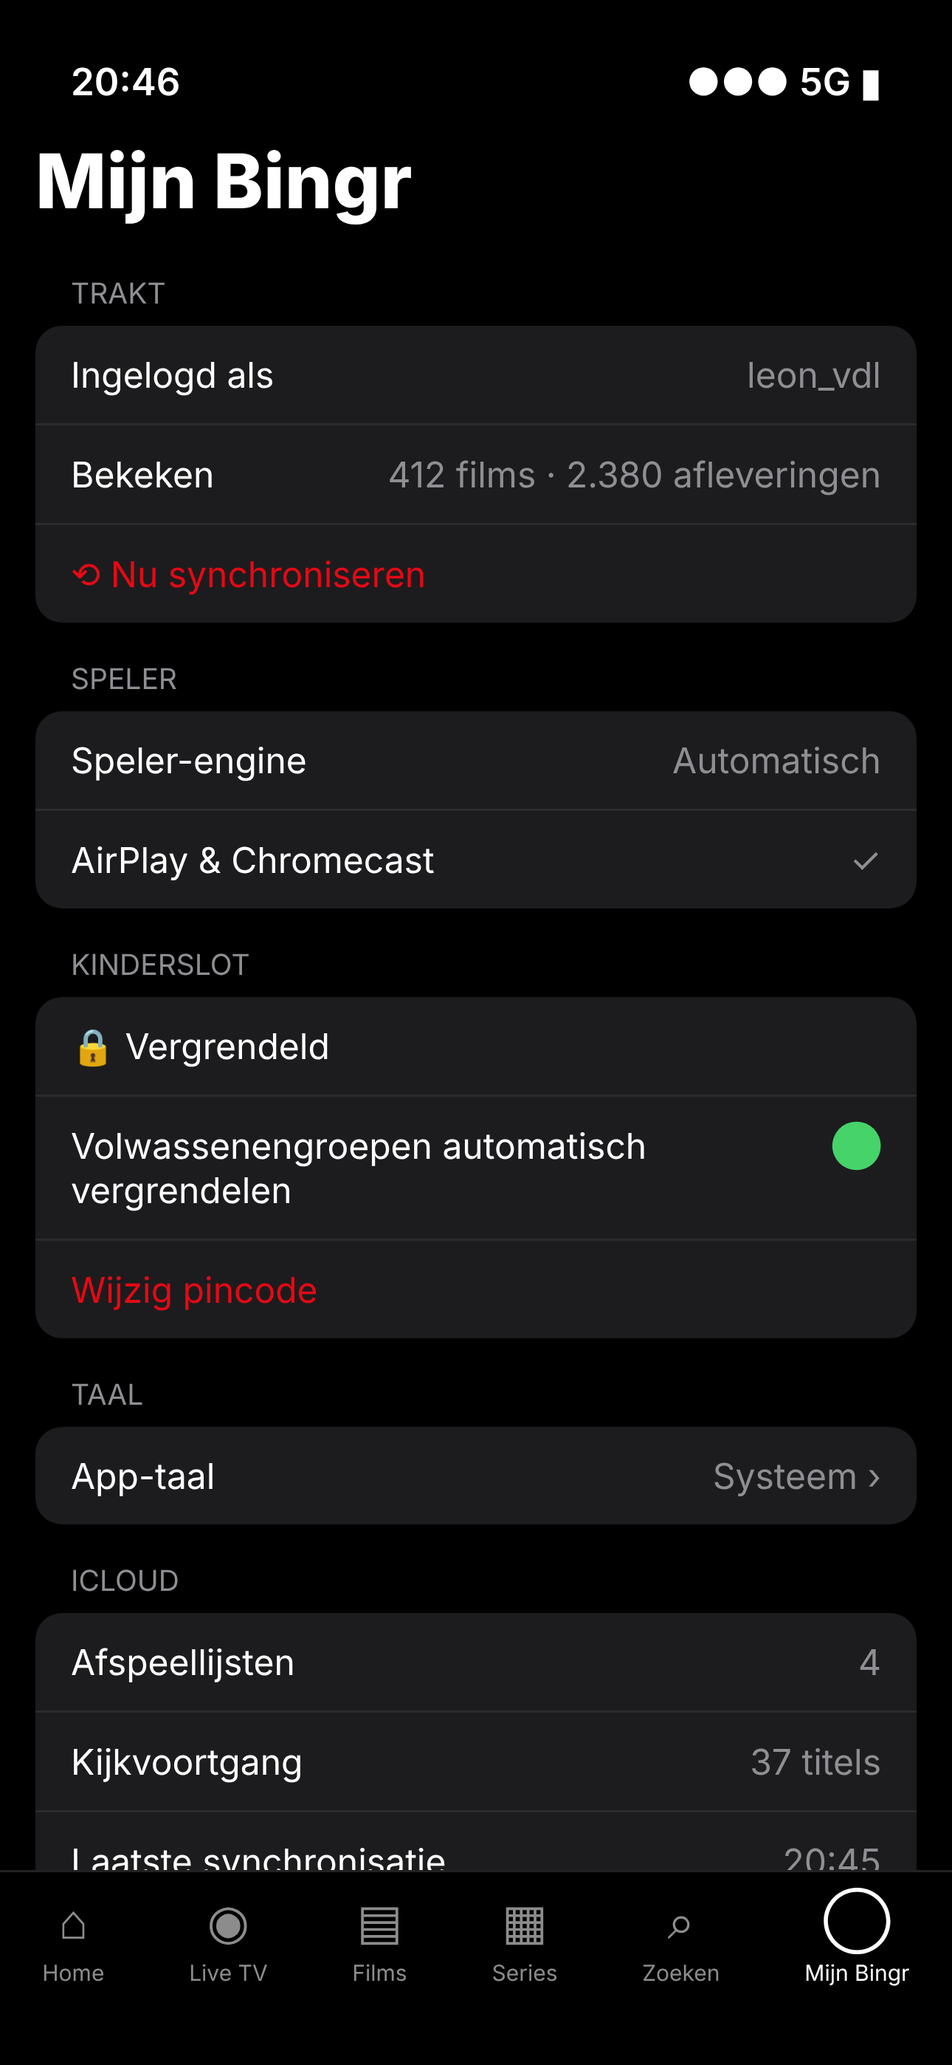
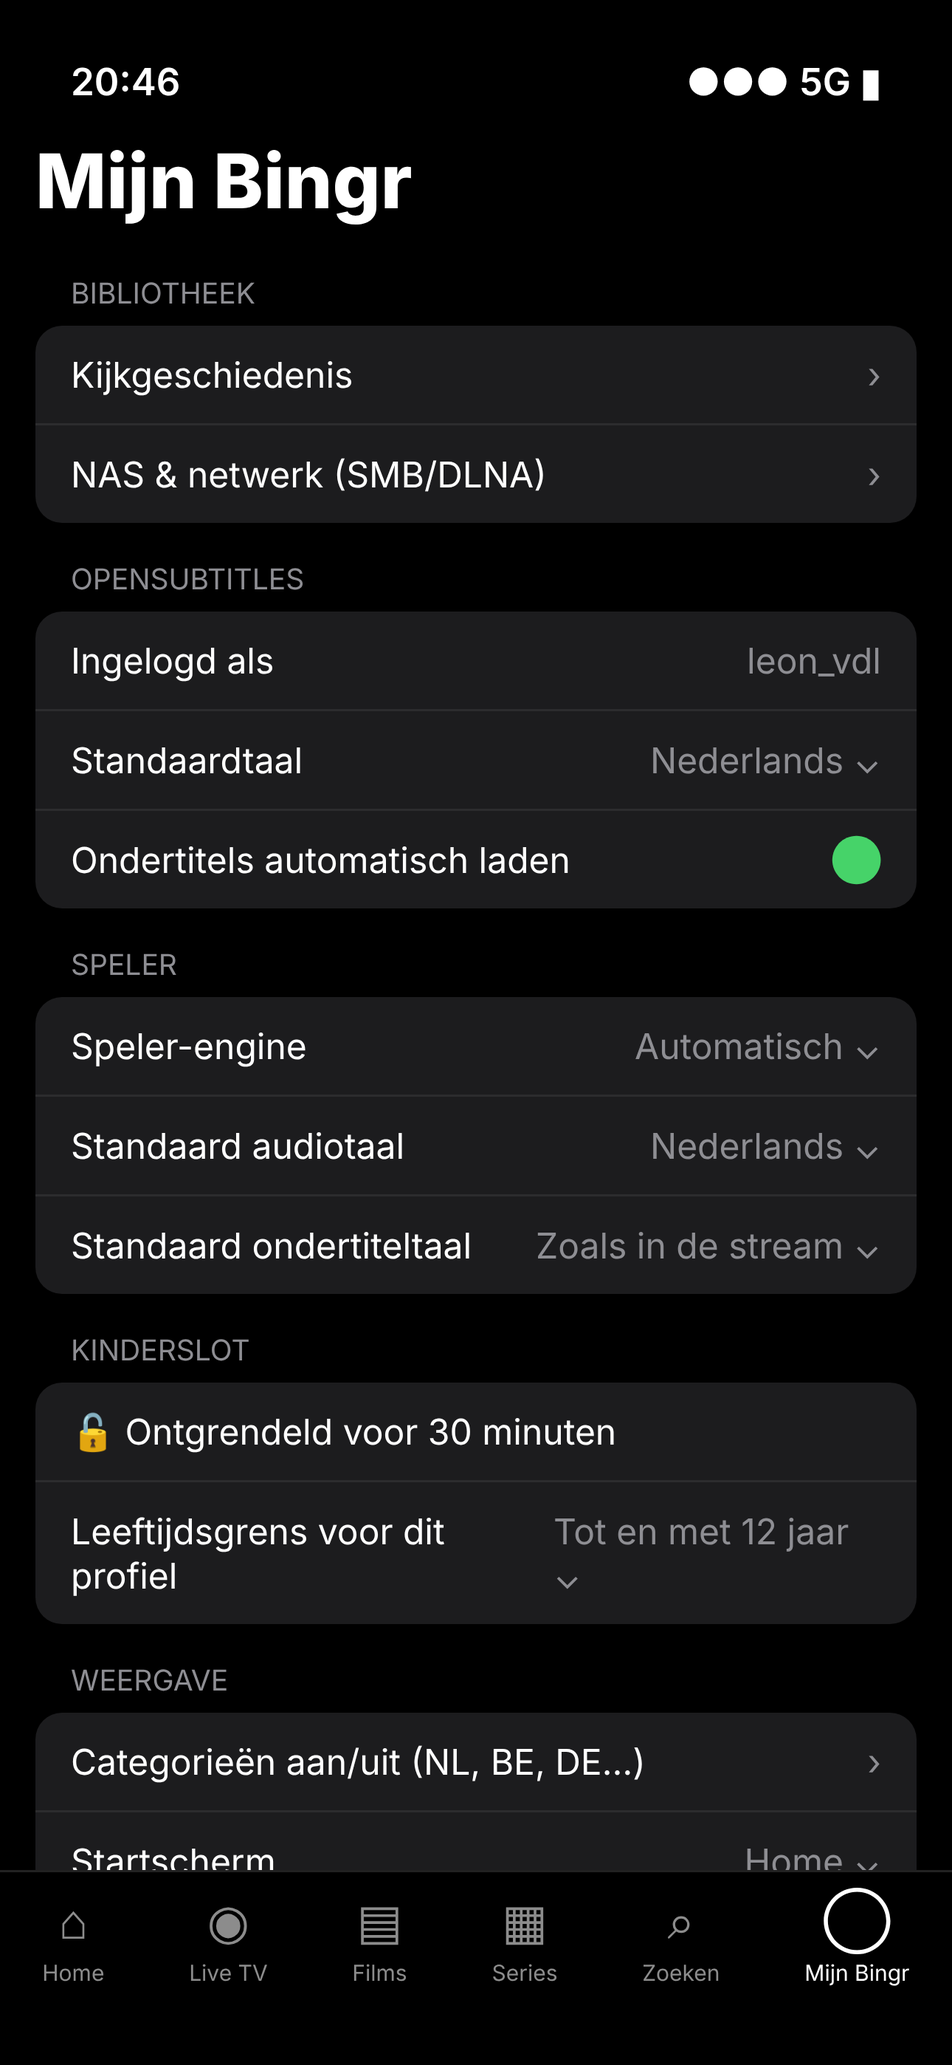
README en screenshots bijgewerkt: Top 10, Bekijk allemaal, categorieën aan/uit, nieuwe instellingen, ronde profielen
Claude-Session: https://claude.ai/code/session_01QoqqLVTvT2ekCDQmWshsy8

diff --git a/docs/mockups/mockups.html b/docs/mockups/mockups.html
@@ -43,7 +43,9 @@ function poster(i,w,opt={}){const p=P[i%P.length];const h=w*1.5;
  return `<div class="poster" style="width:${w}px;height:${h}px;background:radial-gradient(circle at 30% 20%,${p[2]}cc,transparent 60%),linear-gradient(160deg,${p[2]},${p[1]} 70%);font-size:${w*.13}px">
  <span>${p[0]}</span>${opt.check?'<div class="check">✓</div>':''}${opt.prog?`<div class="bar"><i style="width:${opt.prog}%"></i></div>`:''}${opt.badge?`<div style="position:absolute;bottom:10px;z-index:2;background:var(--red);font-size:9px;padding:2px 5px;border-radius:2px">${opt.badge}</div>`:''}</div>`}
 const AV=[["#E50914","#7A0008","📺"],["#2563EB","#1E1B4B","🌐"],["#10B981","#064E3B","⚽"],["#A855F7","#3B0764","👑"],["#F59E0B","#9A3412","🔥"]];
-function av(i,s,name,color="#B3B3B3"){const a=AV[i];return `<div style="display:flex;flex-direction:column;align-items:center;gap:${s*.07}px"><div class="avatar" style="width:${s}px;height:${s}px;background:linear-gradient(135deg,${a[0]},${a[1]});font-size:${s*.42}px">${a[2]}</div><div style="color:${color};font-size:${s*.13}px">${name}</div></div>`}
+function av(i,s,name,color="#B3B3B3"){const a=AV[i];return `<div style="display:flex;flex-direction:column;align-items:center;gap:${s*.07}px"><div class="avatar" style="border-radius:50%;width:${s}px;height:${s}px;background:linear-gradient(135deg,${a[0]},${a[1]});font-size:${s*.42}px">${a[2]}</div><div style="color:${color};font-size:${s*.13}px">${name}</div></div>`}
+function top10(i,k,w){return `<div style="display:flex;align-items:flex-end;flex:none;margin-right:6px"><div style="font-size:${w*1.45}px;font-weight:900;line-height:.78;color:#000;-webkit-text-stroke:${Math.max(2,w/45)}px #8c8c8c;letter-spacing:-.06em;margin-right:-${w*.28}px">${k+1}</div><div style="position:relative;box-shadow:-6px 0 14px #000a">${poster(i,w,{badge:k==1?'Onlangs toegevoegd':null})}<div style="position:absolute;top:5px;left:5px;z-index:3;background:var(--red);border-radius:2px;padding:1px 3px;text-align:center;line-height:.9"><div style="font-size:${w*.055}px;font-weight:900">TOP</div><div style="font-size:${w*.09}px;font-weight:900">10</div></div></div></div>`}
+function rowh(t,all=true,fs=19){return `<div style="display:flex;justify-content:space-between;align-items:baseline;margin:0 16px 8px"><h3 style="margin:0;font-size:${fs}px">${t}</h3>${all?`<span style="font-size:15px;font-weight:600">Bekijk allemaal</span>`:''}</div>`}
 function chlogo(t,c){return `<div style="display:grid;place-items:center;font-weight:900;color:${c};font-size:13px;letter-spacing:-.02em">${t}</div>`}
 const CH=[["Nieuws 24","#ff6d00","Avondjournaal","20:00","20:30",.6],["Actua","#00a0e9","Achter het nieuws","21:30","22:15",.2],["Prime One","#e3001b","Showbizz vandaag","20:30","21:30",.35],
  ["Family+","#d50000","Ons dorp","19:30","20:30",.8],["Motor TV","#6a1b9a","Formule 1 · Kwalificatie","20:00","22:00",.4],["Sport 1","#ff7f00","Voetbal Live","20:00","22:00",.45],
@@ -64,7 +66,7 @@ const screens = {
    <div style="text-align:center;margin-top:120px;font-size:26px;font-weight:500">Wat wil je kijken?</div>
    <div style="display:grid;grid-template-columns:repeat(2,130px);gap:28px 28px;justify-content:center;margin-top:36px">
    ${av(0,130,"Thuis TV")}${av(1,130,"Xtream Premium")}${av(2,130,"Sport")}${av(3,130,"Films 4K")}
-   <div style="display:flex;flex-direction:column;align-items:center;gap:9px"><div style="width:130px;height:130px;border:2px solid #b3b3b380;border-radius:8px;display:grid;place-items:center;font-size:48px;color:#b3b3b3;font-weight:200">+</div><div style="color:#b3b3b3;font-size:17px">Toevoegen</div></div></div>
+   <div style="display:flex;flex-direction:column;align-items:center;gap:9px"><div style="width:130px;height:130px;border:2px solid #b3b3b380;border-radius:50%;display:grid;place-items:center;font-size:48px;color:#b3b3b3;font-weight:200">+</div><div style="color:#b3b3b3;font-size:17px">Toevoegen</div></div></div>
    <div style="position:absolute;bottom:40px;width:100%;text-align:center;color:#b3b3b3aa;font-size:12px">☁ iCloud gesynchroniseerd · 20:41</div></div>`,
  ios_home:()=>`<div class="screen"><div style="position:absolute;inset:0 0 auto 0;height:640px;background:radial-gradient(circle at 50% 40%,#c0392b88,#000 75%)"></div>
    <div style="position:relative"><div class="status"><span>20:42</span><span>●●● 5G ▮</span></div>
@@ -76,10 +78,10 @@ const screens = {
        <div style="font-weight:900;font-size:34px;letter-spacing:1px">THE LAST SIGNAL</div>
        <div style="font-size:12px;opacity:.85;margin:8px 0 12px">2026 • Thriller • Sci-Fi • 2u 4m</div>
        <div style="display:flex;gap:10px"><div class="btn w" style="flex:1;padding:10px">▶ Afspelen</div><div class="btn g" style="flex:1;padding:10px">ⓘ Info</div></div></div></div>
-   <div class="row"><h3>Top 10 films vandaag</h3><div class="scroller">${[0,1,2].map((i,k)=>`<div style="display:flex;align-items:center;flex:none"><div style="font-size:150px;font-weight:900;line-height:1;background:linear-gradient(#4a4a4a,#111);-webkit-background-clip:text;color:transparent;-webkit-text-stroke:2px #888;margin-right:-22px">${k+1}</div>${poster(i+5,112,{check:k==1})}</div>`).join('')}</div></div><div class="row"><h3>Onlangs toegevoegd</h3><div class="scroller">${[13,14,15,16].map(i=>poster(i,112)).join('')}</div></div>
-   <div class="row"><h3>Verder kijken</h3><div class="scroller">${[4,8,2,11].map((i,k)=>poster(i,112,{prog:[62,25,80,40][k]})).join('')}</div></div>
-   <div class="row"><h3>Voor jou</h3><div class="scroller">${[3,9,12,6].map((i,k)=>poster(i,112,{badge:k%2?'SERIE':'FILM'})).join('')}</div></div>
-   
+   <div class="row">${rowh('Onlangs toegevoegd')}<div class="scroller">${[13,14,15,16].map(i=>poster(i,112)).join('')}</div></div>
+   <div class="row">${rowh('Verder kijken',false)}<div class="scroller">${[4,8,2,11].map((i,k)=>poster(i,112,{prog:[62,25,80,40][k]})).join('')}</div></div>
+   <div class="row">${rowh('Voor jou')}<div class="scroller">${[3,9,12,6].map((i,k)=>poster(i,112,{badge:k%2?'SERIE':'FILM'})).join('')}</div></div>
+   <div class="row">${rowh('Top 10 series vandaag')}<div class="scroller">${[7,10,1].map((i,k)=>top10(i,k,118)).join('')}</div></div>
    </div>
    <div class="tabbar">${["Home","Live TV","Films","Series","Zoeken","Mijn Bingr"].map((t,i)=>`<div class="${i==0?'on':''}"><span style="font-size:22px">${["⌂","◉","▤","▦","⌕","◯"][i]}</span>${t}</div>`).join('')}</div></div>`,
  ios_detail:()=>`<div class="screen" style="background:#000;overflow:hidden">
@@ -148,14 +150,34 @@ const screens = {
    <div class="tabbar">${["Home","Live TV","Films","Series","Zoeken","Mijn Bingr"].map((t,i)=>`<div class="${i==1?'on':''}"><span style="font-size:22px">${["⌂","◉","▤","▦","⌕","◯"][i]}</span>${t}</div>`).join('')}</div></div>`,
  ios_settings:()=>`<div class="screen" style="background:#000"><div class="status"><span>20:46</span><span>●●● 5G ▮</span></div>
    <div style="font-size:34px;font-weight:800;padding:8px 16px 4px">Mijn Bingr</div>
-   ${[["TRAKT",[["Ingelogd als","leon_vdl"],["Bekeken","412 films · 2.380 afleveringen"],["⟲ Nu synchroniseren",""]]],
-      ["SPELER",[["Speler-engine","Automatisch"],["AirPlay & Chromecast","✓"]]],
-      ["KINDERSLOT",[["🔒 Vergrendeld",""],["Volwassenengroepen automatisch vergrendelen","●"],["Wijzig pincode",""]]],
-      ["TAAL",[["App-taal","Systeem ›"]]],
-      ["ICLOUD",[["Afspeellijsten","4"],["Kijkvoortgang","37 titels"],["Laatste synchronisatie","20:45"]]]].map(sec=>`
+   ${[["BIBLIOTHEEK",[["Kijkgeschiedenis","›"],["NAS & netwerk (SMB/DLNA)","›"]]],
+      ["OPENSUBTITLES",[["Ingelogd als","leon_vdl"],["Standaardtaal","Nederlands ⌄"],["Ondertitels automatisch laden","●"]]],
+      ["SPELER",[["Speler-engine","Automatisch ⌄"],["Standaard audiotaal","Nederlands ⌄"],["Standaard ondertiteltaal","Zoals in de stream ⌄"]]],
+      ["KINDERSLOT",[["🔓 Ontgrendeld voor 30 minuten",""],["Leeftijdsgrens voor dit profiel","Tot en met 12 jaar ⌄"]]],
+      ["WEERGAVE",[["Categorieën aan/uit (NL, BE, DE…)","›"],["Startscherm","Home ⌄"],["Live-tv tonen","●"]]],
+      ["TAAL",[["App-taal","Systeem ⌄"]]]].map(sec=>`
      <div style="color:#8e8e93;font-size:13px;margin:18px 32px 6px">${sec[0]}</div>
      <div style="background:#1c1c1e;border-radius:12px;margin:0 16px">${sec[1].map((r,i)=>`<div style="display:flex;justify-content:space-between;padding:12px 16px;font-size:16px;${i?'border-top:1px solid #2c2c2e':''}"><span style="${r[0].startsWith('⟲')||r[0].startsWith('Wijzig')?'color:var(--red)':''}">${r[0]}</span><span style="color:${r[1]=='●'?'var(--green)':'#8e8e93'}">${r[1]=='●'?'⬤':r[1]}</span></div>`).join('')}</div>`).join('')}
    <div class="tabbar">${["Home","Live TV","Films","Series","Zoeken","Mijn Bingr"].map((t,i)=>`<div class="${i==5?'on':''}"><span style="font-size:22px">${["⌂","◉","▤","▦","⌕","◯"][i]}</span>${t}</div>`).join('')}</div></div>`,
+ ios_top10:()=>`<div class="screen"><div class="status"><span>20:43</span><span>●●● 5G ▮</span></div>
+   <div style="display:flex;justify-content:space-between;align-items:center;padding:6px 16px"><div class="logo" style="font-size:26px">BINGR</div><div class="avatar" style="width:30px;height:30px;font-size:15px;border-radius:50%;background:linear-gradient(135deg,#E50914,#7A0008)">📺</div></div>
+   <div class="row">${rowh('Verder kijken',false)}<div class="scroller">${[4,8,2,11].map((i,k)=>poster(i,112,{prog:[62,25,80,40][k]})).join('')}</div></div>
+   <div class="row">${rowh('Voor jou')}<div class="scroller">${[3,9,12,6].map((i,k)=>poster(i,112,{badge:k%2?'SERIE':'FILM'})).join('')}</div></div>
+   <div class="row" style="margin-top:26px">${rowh('Top 10 series vandaag')}<div class="scroller">${[7,10,1].map((i,k)=>top10(i,k,118)).join('')}</div></div>
+   <div class="row" style="margin-top:26px">${rowh('Top 10 films vandaag')}<div class="scroller">${[5,13,0].map((i,k)=>top10(i,k,118)).join('')}</div></div>
+   <div class="tabbar">${["Home","Live TV","Films","Series","Zoeken","Mijn Bingr"].map((t,i)=>`<div class="${i==0?'on':''}"><span style="font-size:22px">${["⌂","◉","▤","▦","⌕","◯"][i]}</span>${t}</div>`).join('')}</div></div>`,
+ ios_categories:()=>`<div class="screen" style="background:#000"><div class="status"><span>20:47</span><span>●●● 5G ▮</span></div>
+   <div style="padding:6px 16px;color:var(--red);font-size:17px">‹ Mijn Bingr</div>
+   <div style="font-size:30px;font-weight:800;padding:2px 16px 10px">Categorieën</div>
+   <div style="margin:0 16px;background:#1c1c1e;border-radius:9px;display:flex;padding:2px">${["Live TV","Films","Series"].map((t,i)=>`<div style="flex:1;text-align:center;padding:6px;border-radius:7px;font-size:13px;font-weight:600;${i==0?'background:#636366':''}">${t}</div>`).join('')}</div>
+   <div style="color:#8e8e93;font-size:13px;margin:18px 32px 6px">LANDEN & TALEN</div>
+   <div style="display:flex;gap:8px;padding:0 16px;flex-wrap:wrap">${[["NL","12/12",1],["BE","6/6",1],["DE","0/9",0],["TK","0/14",0],["UK","3/8",2],["FR","0/7",0]].map(p=>`<div style="padding:7px 12px;border-radius:999px;font-size:14px;background:${p[2]==1?'#E50914d9':'#232323'}"><b>${p[2]==1?'✓':p[2]==2?'−':'○'} ${p[0]}</b> <span style="color:#b3b3b3">${p[1]}</span></div>`).join('')}</div>
+   <div style="color:#8e8e93;font-size:12px;margin:6px 32px">Tik op een code om al die categorieën in één keer aan of uit te zetten.</div>
+   <div style="color:#8e8e93;font-size:13px;margin:16px 32px 6px">CATEGORIEËN (56)</div>
+   <div style="background:#1c1c1e;border-radius:12px;margin:0 16px">${[["Alles aan","Alles uit"]].map(r=>`<div style="display:flex;justify-content:space-between;padding:12px 16px;color:var(--red);font-size:16px"><span>${r[0]}</span><span>${r[1]}</span></div>`).join('')}${[["NL | Algemeen",1],["NL | Sport",1],["NL | Kids",1],["BE | Vlaams",1],["DE | Allgemein",0],["DE | Sport",0],["TK | Ulusal",0],["UK | Entertainment",1],["UK | News",0]].map(r=>`<div style="display:flex;justify-content:space-between;align-items:center;padding:10px 16px;font-size:16px;border-top:1px solid #2c2c2e"><span>${r[0]}</span><span style="width:51px;height:31px;border-radius:16px;background:${r[1]?'var(--red)':'#39393d'};position:relative"><i style="position:absolute;top:2px;${r[1]?'right':'left'}:2px;width:27px;height:27px;border-radius:50%;background:#fff"></i></span></div>`).join('')}</div></div>`,
+ ios_category:()=>`<div class="screen" style="background:#000"><div class="status"><span>20:48</span><span>●●● 5G ▮</span></div>
+   <div style="display:flex;align-items:center;gap:10px;padding:8px 12px 14px"><span style="font-size:26px">‹</span><div style="flex:1;font-size:21px;font-weight:800">NL | NETFLIX SERIES</div><span style="font-size:20px">⇅</span></div>
+   <div style="display:grid;grid-template-columns:1fr 1fr;gap:14px;padding:0 16px">${[0,3,7,9,12,15].map((i,k)=>`<div><div style="position:relative">${poster(i,191)}<div style="position:absolute;top:6px;right:6px;z-index:3;background:var(--imdb);color:#000;font-size:11px;font-weight:800;padding:2px 6px;border-radius:4px">★ ${[7.9,8.4,6.8,7.2,8.1,6.5][k]}</div></div><div style="font-size:13px;font-weight:600;margin-top:6px">${P[i][0]}</div></div>`).join('')}</div></div>`,
  // ---------- tvOS ----------
 
  tv_multiview:()=>`<div class="screen" style="display:grid;grid-template-columns:1fr 1fr;grid-template-rows:1fr 1fr">
@@ -187,9 +209,9 @@ const screens = {
      <div style="display:flex;gap:40px;padding:24px 80px">${[4,8,2,11,6,13].map((i,k)=>poster(i,230,{prog:[62,25,80,40,10,55][k]})).join('')}</div></div></div>`,
  tv_picker:()=>`<div class="screen" style="display:flex;flex-direction:column;align-items:center;justify-content:center">
    <div class="logo" style="position:absolute;top:50px;left:80px;font-size:50px">BINGR</div>
-   <div style="font-size:52px;font-weight:500;margin-bottom:60px">Wat wil je kijken?</div>
-   <div style="display:flex;gap:60px">${av(0,230,"Thuis TV")}${av(1,230,"Xtream Premium")}<div style="transform:scale(1.12);filter:drop-shadow(0 20px 30px #000)">${av(2,230,"Sport","#fff")}</div>${av(3,230,"Films 4K")}
-   <div style="display:flex;flex-direction:column;align-items:center;gap:16px"><div style="width:230px;height:230px;border:3px solid #b3b3b380;border-radius:8px;display:grid;place-items:center;font-size:90px;color:#b3b3b3;font-weight:200">+</div><div style="color:#b3b3b3;font-size:30px">Toevoegen</div></div></div>
+   <div style="font-size:52px;font-weight:500;margin-bottom:70px">Wat wil je kijken?</div>
+   <div style="display:flex;gap:70px;align-items:flex-start">${av(0,230,"Thuis TV")}${av(1,230,"Xtream Premium")}<div style="transform:scale(1.12);filter:drop-shadow(0 20px 30px #000)"><div style="display:flex;flex-direction:column;align-items:center;gap:16px"><div class="avatar" style="border-radius:50%;width:230px;height:230px;background:linear-gradient(135deg,${AV[2][0]},${AV[2][1]});font-size:97px;box-shadow:0 0 0 6px #fff">${AV[2][2]}</div><div style="color:#fff;font-weight:700;font-size:30px">Sport</div></div></div>${av(3,230,"Films 4K")}
+   <div style="display:flex;flex-direction:column;align-items:center;gap:16px"><div style="width:230px;height:230px;border:3px solid #b3b3b380;border-radius:50%;display:grid;place-items:center;font-size:90px;color:#b3b3b3;font-weight:200">+</div><div style="color:#b3b3b3;font-size:30px">Toevoegen</div></div></div>
    <div style="position:absolute;bottom:50px;color:#b3b3b3aa;font-size:22px">☁ iCloud gesynchroniseerd met je iPhone</div></div>`,
  tv_detail:()=>`<div class="screen" style="background:#141414">
    <div style="position:absolute;inset:0;height:460px;background:radial-gradient(circle at 30% 30%,#16a085,transparent 60%),linear-gradient(160deg,#0b3d3a,#141414)"></div>

diff --git a/README.md b/README.md
@@ -16,10 +16,10 @@ SwiftUI · iOS 17+ · tvOS 17+ · Apple- én VLC-engine · 11 talen.
 | <img src="docs/screenshots/ios_splash.png" width="240"> | <img src="docs/screenshots/ios_picker.png" width="240"> | <img src="docs/screenshots/ios_home.png" width="240"> |
 | **Details** | **Details: scores, cast, aanbevelingen** | **Live TV** |
 | <img src="docs/screenshots/ios_detail.png" width="240"> | <img src="docs/screenshots/ios_detail2.png" width="240"> | <img src="docs/screenshots/ios_live.png" width="240"> |
-| **Tv-gids** | | |
-| <img src="docs/screenshots/ios_guide.png" width="240"> | | |
-| **Afspeellijst toevoegen** | **Instellingen** | |
-| <img src="docs/screenshots/ios_add.png" width="240"> | <img src="docs/screenshots/ios_settings.png" width="240"> | |
+| **Tv-gids** | **Top 10 (Netflix-stijl)** | **Bekijk allemaal** |
+| <img src="docs/screenshots/ios_guide.png" width="240"> | <img src="docs/screenshots/ios_top10.png" width="240"> | <img src="docs/screenshots/ios_category.png" width="240"> |
+| **Afspeellijst toevoegen** | **Mijn Bingr** | **Categorieën aan/uit** |
+| <img src="docs/screenshots/ios_add.png" width="240"> | <img src="docs/screenshots/ios_settings.png" width="240"> | <img src="docs/screenshots/ios_categories.png" width="240"> |
 
 ### Apple TV
 
@@ -40,20 +40,26 @@ SwiftUI · iOS 17+ · tvOS 17+ · Apple- én VLC-engine · 11 talen.
 - **Plex** (inloggen met code op plex.tv/link), **Jellyfin**, **Emby** (films, series, live TV + gids)
 - **Stremio**: inloggen met je Stremio-account of eigen add-on-URL's (Cinemeta-catalogi, directe streams)
 - Afspeellijst-kiezer in Netflix-profielstijl met eigen **naam en avatar of profielfoto** (uit je fotobibliotheek) per lijst
-- **Zoeken in al je afspeellijsten** tegelijk
+- **Zoeken in al je afspeellijsten** tegelijk, ook in de **tv-gids** (nu, straks en terugkijken)
+- **NAS via SMB/DLNA**: servers op je netwerk worden gevonden, of voeg zelf een SMB-share toe; bladeren en afspelen
 
 **Kijken**
 - Twee engines: **Apple (AVPlayer)** voor HLS/MP4 met **HDR, Dolby Vision, Dolby Atmos** en automatisch juiste schermmodus op Apple TV; **VLC** voor .ts, .mkv, AC3/DTS en de rest. Automatisch kiezen of zelf instellen
-- **AirPlay** en **Chromecast** (zonder extra SDK)
+- **AirPlay** en **Chromecast** (zonder extra SDK), **beeld-in-beeld** op iPhone, iPad en Apple TV
+- **Standaard audio- en ondertiteltaal** (automatisch gekozen als de stream ze heeft)
 - **Automatisch herverbinden** bij haperende of weggevallen streams (met terugval naar de andere engine)
 - **Timeshift**: live tv pauzeren en terugspoelen (HLS-venster of catch-up), knop "terug naar live"
 - **Multiview**: tot 4 streams tegelijk, geluid van het geselecteerde beeld
-- Audio- en ondertitelsporen, **OpenSubtitles** (inloggen, zoeken op IMDb-ID, automatisch laden), snelheid, beeldverhouding, slaaptimer, zappen ↑↓
+- Audio- en ondertitelsporen, **OpenSubtitles** (zoeken op IMDb-ID of titel, taal kiezen tijdens het kijken, standaardtaal + automatisch laden), snelheid, beeldverhouding, slaaptimer, zappen ↑↓
 
 **Gids & beheer**
 - **Tv-gids als raster** met nu-lijn, programma-details, **terugkijken** en **herinneringen** (melding op iPhone/iPad, banner op Apple TV)
+- **Live TV** opent op "Alle zenders"; favorieten, recent en alle groepen
+- **Categorieën aan/uit** per Live TV, Films en Series, met snelknoppen per land/taal (NL, BE, DE, TK …)
 - **Beheren**: groepen en zenders hernoemen, herschikken, samenvoegen en verbergen
-- **Kinderslot** met pincode: groepen op slot, volwassenengroepen automatisch, 30 min ontgrendelen
+- **Kinderslot** met pincode: groepen op slot, volwassenengroepen automatisch, **leeftijdsgrens per profiel** (IMDb-classificatie), 30 min ontgrendelen
+- **Kijkgeschiedenis per profiel**, per dag, met verwijderen en wissen
+- **Weergave**: startscherm kiezen en tabbladen verbergen; alle keuzes als dropdown
 
 **Detailpagina (UHF-stijl)**
 - Grote afbeelding met titel-logo, score, jaar en speelduur/seizoenen
@@ -64,7 +70,10 @@ SwiftUI · iOS 17+ · tvOS 17+ · Apple- én VLC-engine · 11 talen.
 - Werkt zonder sleutels met de info van je Xtream-server; IMDb, Trakt en TMDB vullen aan
 
 **Netflix-ervaring**
-- Geanimeerde splash, billboard, rijen, Top 10 (Trakt trending in jouw lijst), Verder kijken, Mijn lijst
+- Geanimeerde splash, profielkeuze met ronde avatars (op Apple TV vergroot de geselecteerde), billboard, rijen
+- **Top 10 zoals Netflix** (grote omlijnde cijfers, Trakt trending in jouw lijst) onder Voor jou: series en films op Home, films bij Films, series bij Series
+- **Verder kijken** (verwijderbaar, zonder live tv), **Voor jou** (vergelijkbaar met wat je keek), Mijn lijst
+- **Bekijk allemaal** bij elke rij: categoriepagina met sorteren (A–Z, nieuwste, score) en IMDb-score per poster
 - **IMDb**-score, plot, cast (via OMDb) en **trailers** (via Trakt)
 - **Trakt, 2 kanten op**: koppelcode + QR, vinkjes uit Trakt in de app, afvinken in de app → Trakt, scrobblen, watchlist
 
@@ -81,7 +90,9 @@ SwiftUI · iOS 17+ · tvOS 17+ · Apple- én VLC-engine · 11 talen.
    xcodegen
    open Bingr.xcodeproj
    ```
-2. **Koppelingen instellen** in de app: *Mijn Bingr → Koppelingen instellen* (eenmalig, gratis). Trakt en OpenSubtitles eisen dat elke app zich één keer registreert; daarna log je gewoon in met je eigen account. De sleutels staan in de iCloud-sleutelhanger, dus je Apple TV heeft ze ook, en ze komen niet in deze openbare repo:
+2. **Sleutels inbouwen (aanbevolen, privé-repo)**: zet ze als *Settings → Secrets and variables → Actions*: `OPENSUBTITLES_API_KEY`, `TMDB_API_KEY` (of `TMDB_API_READ_ACCESS_TOKEN`), `OMDB_API_KEY`, `TRAKT_CLIENT_ID`, `TRAKT_CLIENT_SECRET`. De CI bouwt ze in en de zip op `ci-logs` bevat ze; gebruikers loggen dan alleen nog met hun eigen account in.
+
+   Of **koppelingen instellen** in de app: *Mijn Bingr → Koppelingen instellen* (eenmalig, gratis). Trakt en OpenSubtitles eisen dat elke app zich één keer registreert; daarna log je gewoon in met je eigen account. De sleutels staan in de iCloud-sleutelhanger, dus je Apple TV heeft ze ook, en ze komen niet in deze openbare repo:
    | Dienst | Waar aanmaken | Let op |
    |---|---|---|
    | Trakt | https://trakt.tv/oauth/applications/new | Redirect URI: `urn:ietf:wg:oauth:2.0:oob` |
